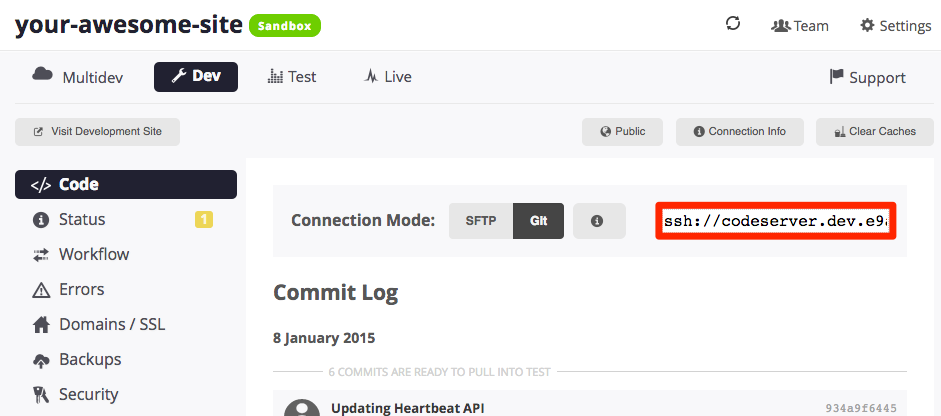
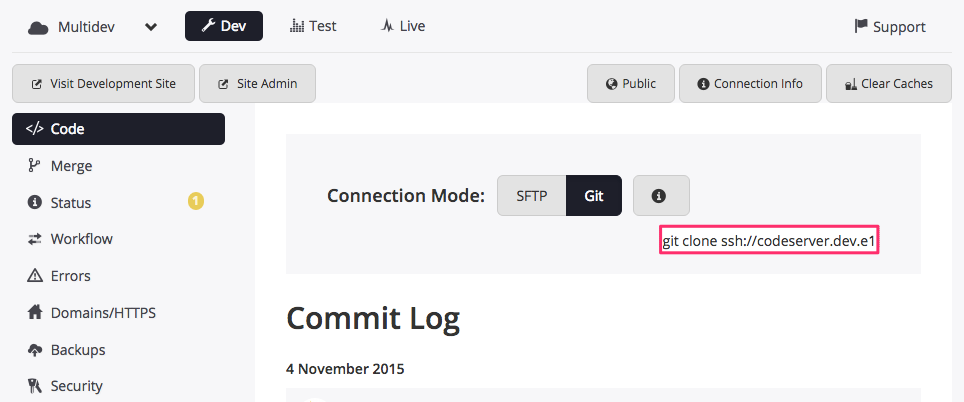
update image, remove git clone

diff --git a/source/docs/articles/sites/code/update-core-for-sites-running-outdated-versions-custom-distributions.md b/source/docs/articles/sites/code/update-core-for-sites-running-outdated-versions-custom-distributions.md
@@ -12,7 +12,7 @@ Core updates for [distributions](https://www.drupal.org/documentation/build/dist
 1. Access the site's Dashboard and change the [connection mode](/docs/articles/getting-started/#interact-with-your-code) to Git.
 2. Copy the clone command.
  ![Git clone](/source/docs/assets/images/git_string.png)
-3. In a local terminal, type `git clone ` and paste the command. Git will unpackage the code in a directory created using your site name.
+3. In a local terminal, paste the command. Git will unpackage the code in a directory created using your site name.
 4. Use `cd your-site-name` to navigate to the new folder.
 
 
